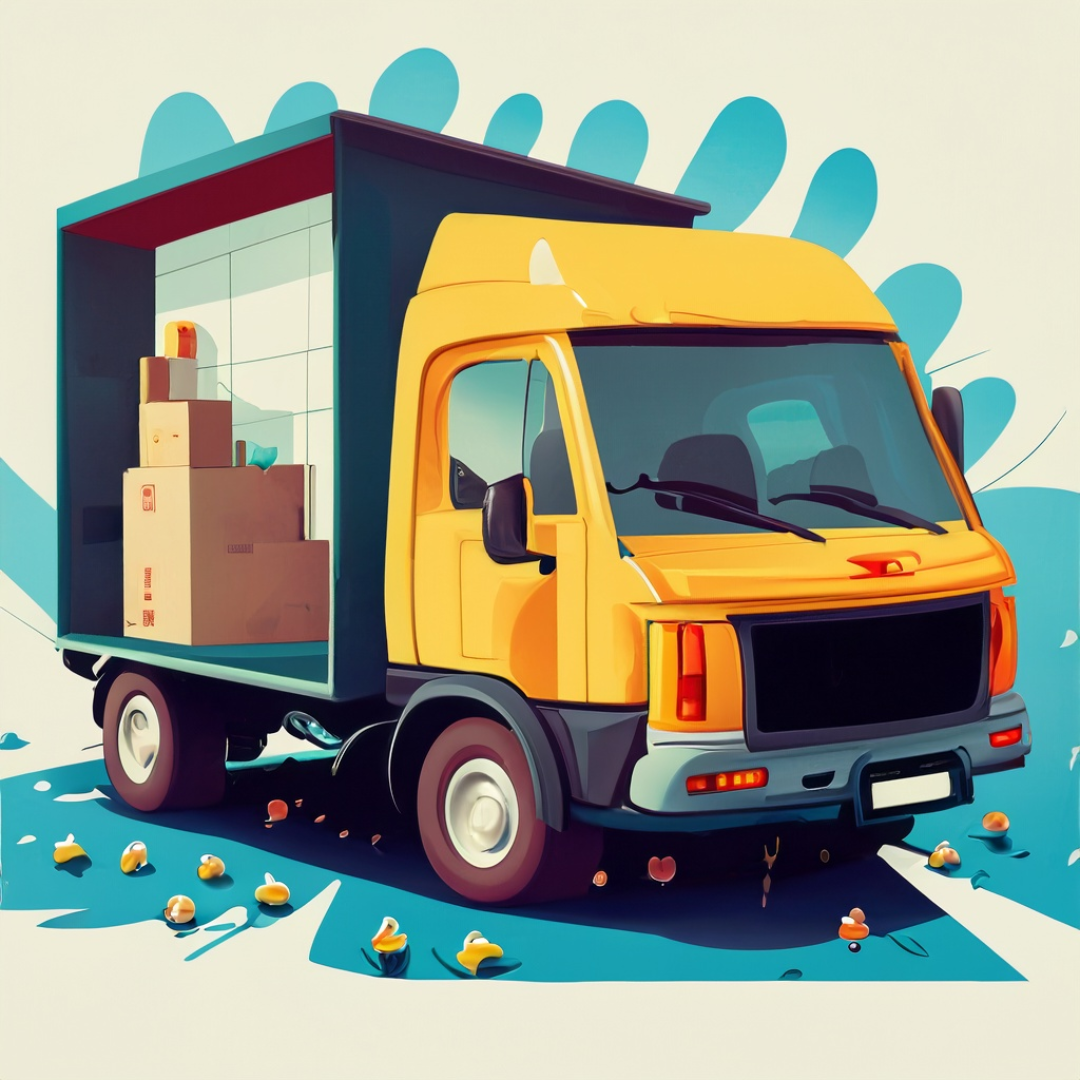
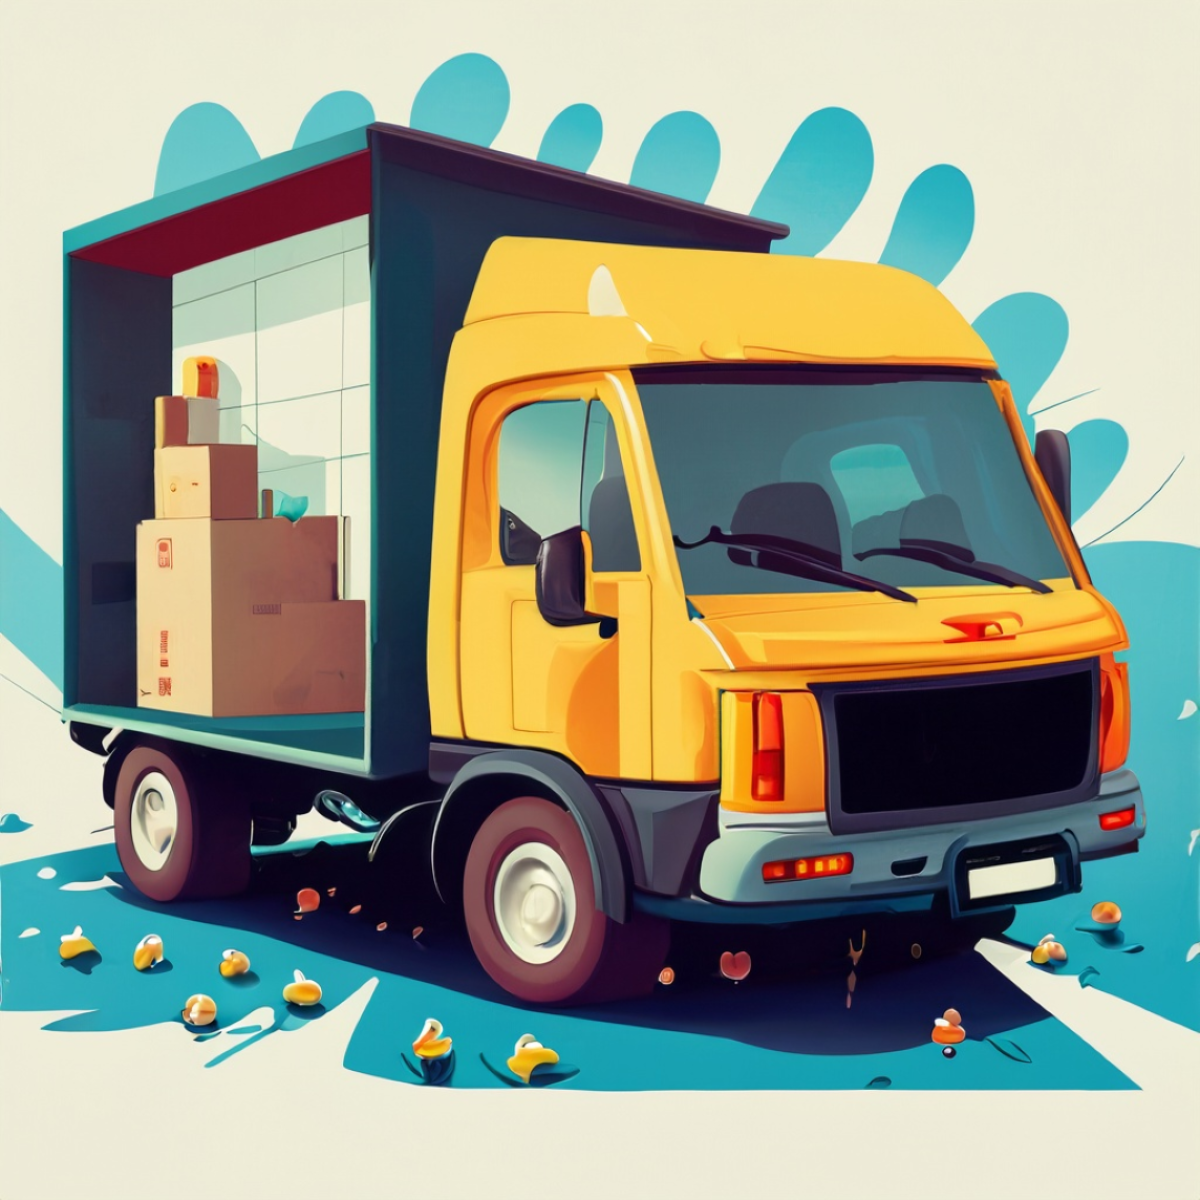
More refactoring to control background

diff --git a/app.css b/app.css
@@ -39,6 +39,8 @@
   background-image: url('images/Background.png');
   padding-top: 100px;
   padding-bottom: 100px;
+  background-size: cover;
+  background-position: left center;
   /* background-position: center;
   background-repeat: no-repeat;
   background-size: cover; */
